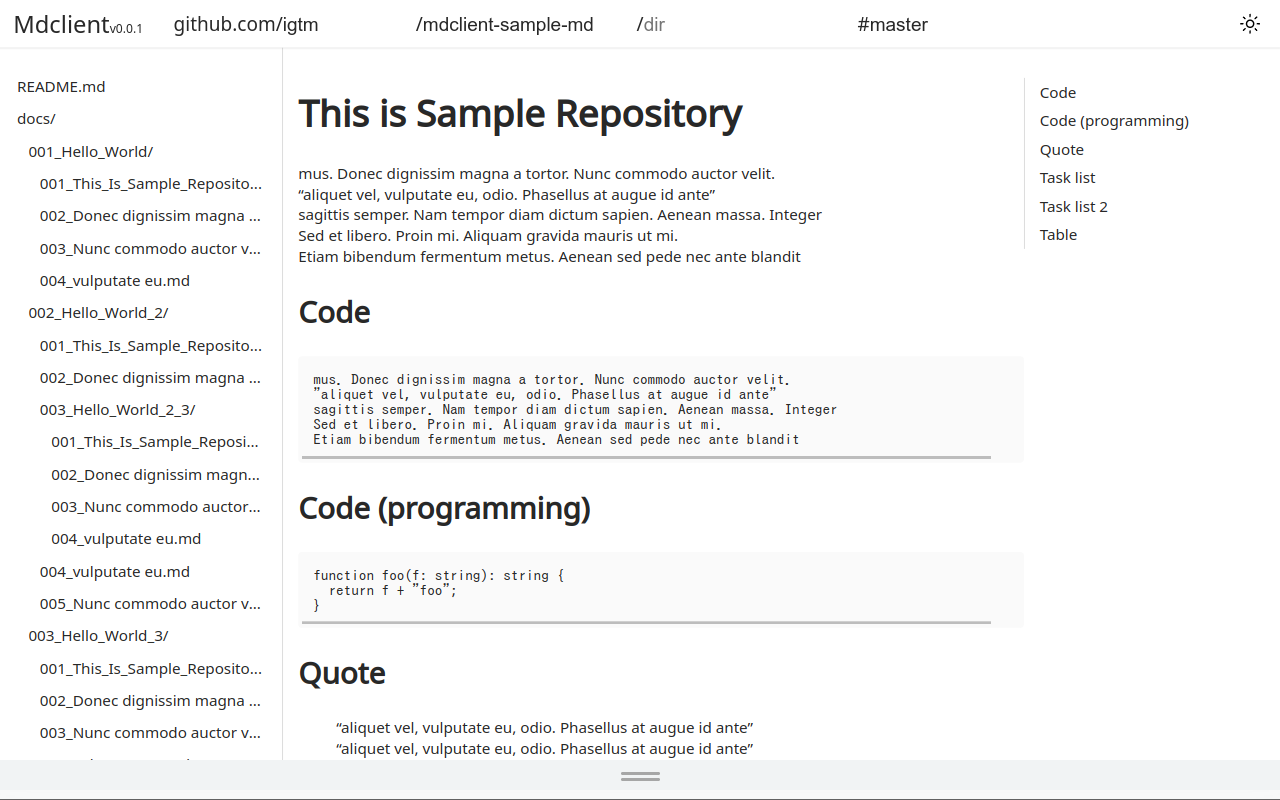
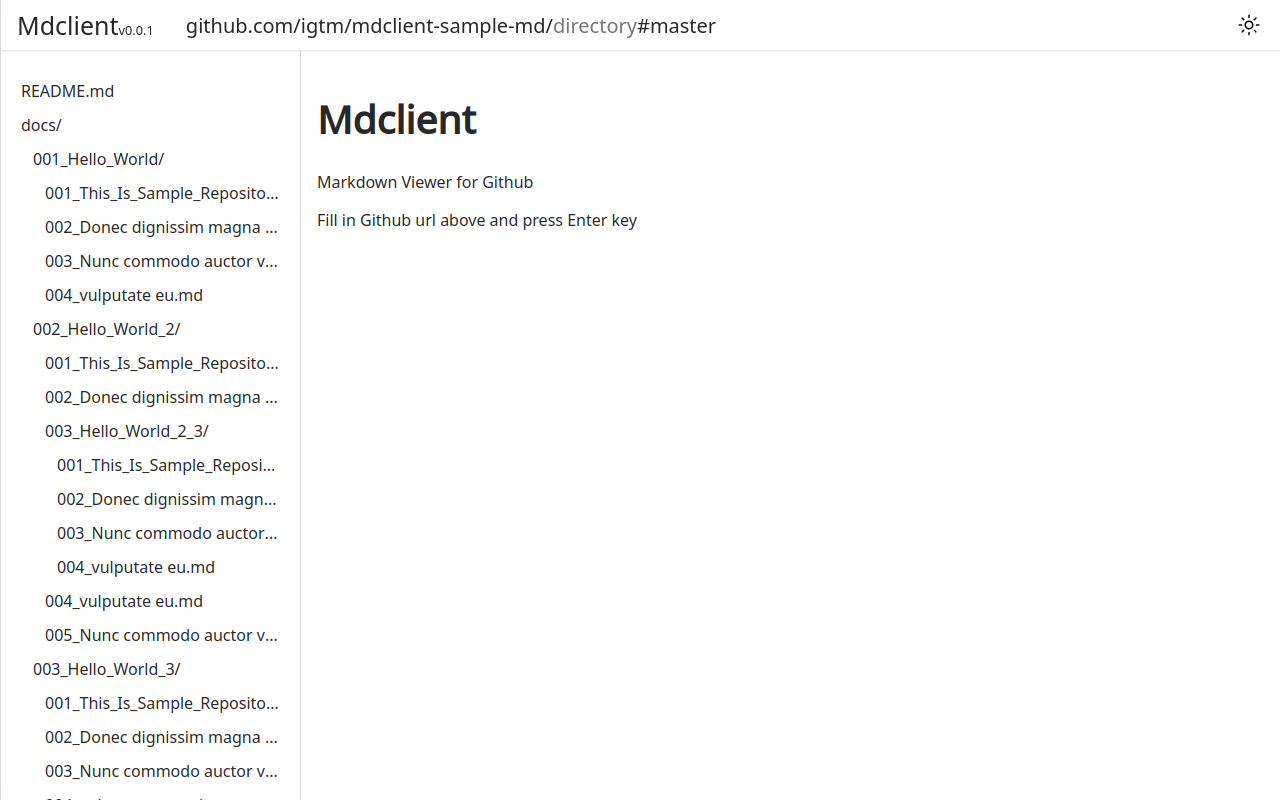
fix header auto resize

diff --git a/chrome-extension-public/pages/index.html b/chrome-extension-public/pages/index.html
@@ -22,10 +22,14 @@
         <div>Mdclient<small>v0.0.1</small></div>
         <div class="header-github-input-form">
           <span>github.com/</span>
-          <span><input type="text" id="github-owner" value="" placeholder="owner" /></span>
-          <span>/<input type="text" id="github-repo" value="" placeholder="repo" /></span>
-          <span>/<input type="text" id="github-dir" value="" placeholder="dir" /></span>
-          <span>#<input type="text" id="github-branch" value="" placeholder="branch" /></span>
+          <span class="input-sizer"><input type="text" id="github-owner" class="auto-resize" size="1"
+              placeholder="owner" /></span>
+          <span class="input-sizer">/<input type="text" id="github-repo" class="auto-resize" size="1"
+              placeholder="repo" /></span>
+          <span class="input-sizer">/<input type="text" id="github-dir" class="auto-resize" size="1"
+              placeholder="directory" /></span>
+          <span class="input-sizer">#<input type="text" id="github-branch" class="auto-resize" size="1"
+              placeholder="branch" /></span>
         </div>
       </div>
       <div class="header-right">

diff --git a/chrome-extension-public/pages/index.js b/chrome-extension-public/pages/index.js
@@ -251,3 +251,35 @@ function get_list(owner, repo, dir, branch) {
       alert(e);
     });
 }
+
+/* resize github input form */
+function resizeGitubInputForm() {
+  document.querySelectorAll(".auto-resize").forEach((element) => {
+    if (element.value === "") {
+      element.parentNode.dataset.value = element.placeholder;
+    } else {
+      element.parentNode.dataset.value = element.value;
+    }
+  });
+}
+
+function listenResizeGitubInputForm() {
+  document.querySelectorAll(".auto-resize").forEach((element) => {
+    element.oninput = (e) => {
+      if (e.target.value === "") {
+        e.target.parentNode.dataset.value = e.target.placeholder;
+      } else {
+        e.target.parentNode.dataset.value = e.target.value;
+      }
+    };
+  });
+}
+
+window.addEventListener(
+  "DOMContentLoaded",
+  () => {
+    listenResizeGitubInputForm();
+    resizeGitubInputForm();
+  },
+  false
+);

diff --git a/chrome-extension-public/pages/style/index.css b/chrome-extension-public/pages/style/index.css
@@ -37,12 +37,7 @@
   overflow: hidden;
   text-overflow: ellipsis;
 }
-#github-owner {
-  width: 140px;
-}
-#github-branch {
-  width: 100px;
-}
+
 .header-right {
   text-align: right;
   display: flex;
@@ -114,4 +109,29 @@
 }
 .index li:hover {
   background-color: var(--sidebar-hover-color);
+}
+
+.input-sizer::after {
+  content: attr(data-value) " ";
+  visibility: hidden;
+}
+
+.input-sizer {
+  display: inline-grid;
+  vertical-align: top;
+  align-items: center;
+  position: relative;
+}
+
+.input-sizer::after,
+.input-sizer input {
+  width: auto;
+  min-width: 1em;
+  grid-area: 1 / 2;
+  font: inherit;
+  resize: none;
+  background: none;
+  appearance: none;
+  border: none;
+  box-sizing: border-box;
 }

diff --git a/chrome-extension-public/pages/style/reset.css b/chrome-extension-public/pages/style/reset.css
@@ -31,6 +31,9 @@ input {
   border: 0;
   color: var(--text-color);
 }
+input:focus {
+  outline: none;
+}
 button {
   padding: 0;
   background-color: transparent;
